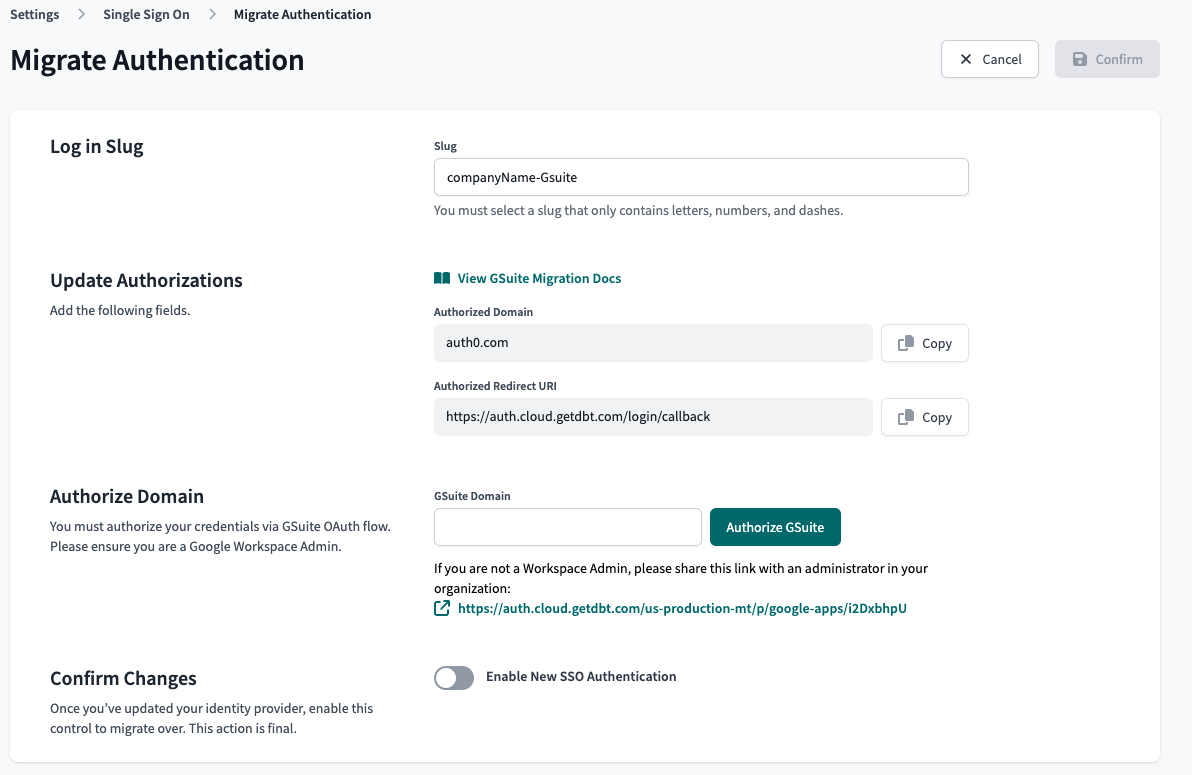
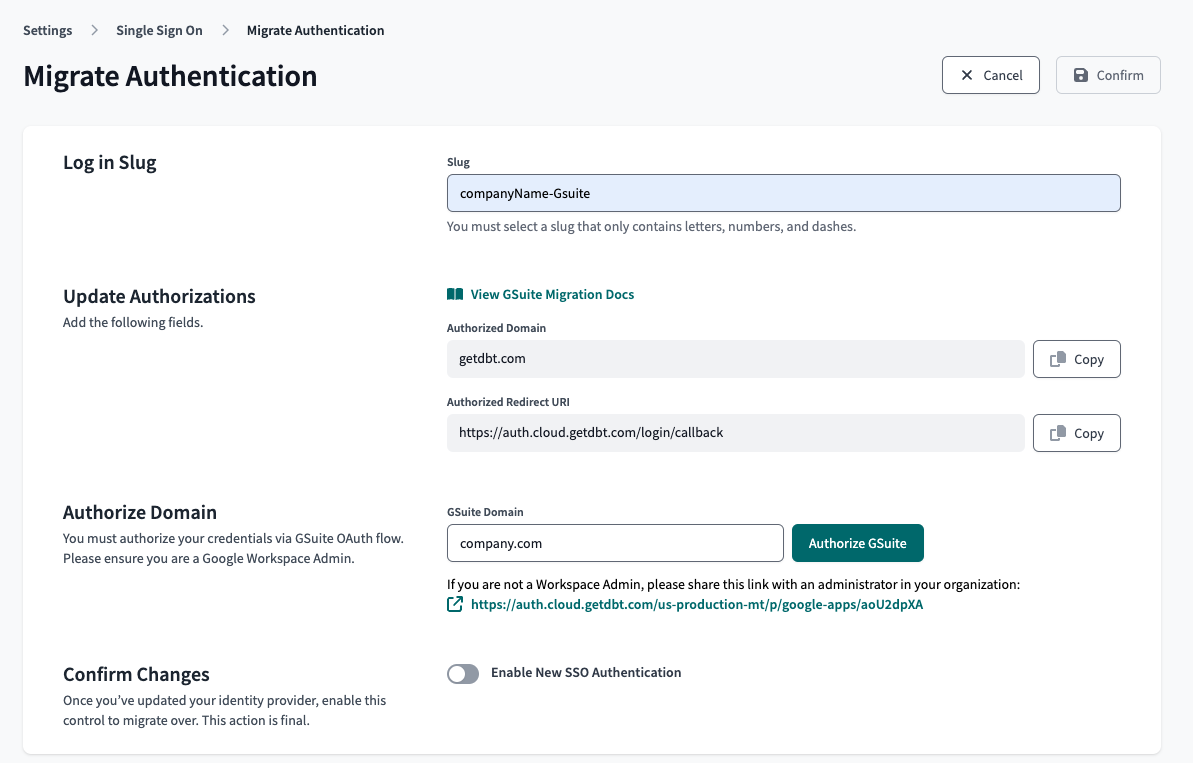
New screenshot for gsuite migration to Auth0

diff --git a/website/docs/docs/cloud/manage-access/set-up-sso-google-workspace.md b/website/docs/docs/cloud/manage-access/set-up-sso-google-workspace.md
@@ -49,7 +49,7 @@ Client Secret for use in dbt Cloud.
 | **Application type**   | internal     | required |
 | **Application name**   | dbt Cloud    | required |
 | **Application logo**   | Download the logo <a href="https://www.getdbt.com/ui/img/dbt-icon.png" target="_blank" rel="noopener noreferrer">here</a> | optional |
-| **Authorized domains** | `getdbt.com` | If deploying into a VPC, use the domain for your deployment |
+| **Authorized domains** | `getdbt.com` | If you are in EMEA or AU multi-tenant, use `dbt.com`. If deploying into a VPC, use the domain for your deployment |
 | **Scopes** | `email, profile, openid` | The default scopes are sufficient |
 
 <Lightbox src="/img/docs/dbt-cloud/dbt-cloud-enterprise/gsuite/gsuite-sso-consent-top.png" title="GSuite Consent Screen configuration"/>
